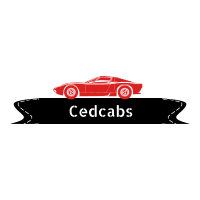
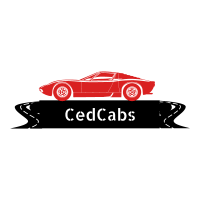
Add files via upload

Changed region(s): [[0.06, 0.33, 0.96, 0.66]]

diff --git a/index.html b/index.html
@@ -9,6 +9,7 @@
     <script src="https://cdn.jsdelivr.net/npm/bootstrap@4.5.3/dist/js/bootstrap.bundle.min.js" integrity="sha384-ho+j7jyWK8fNQe+A12Hb8AhRq26LrZ/JpcUGGOn+Y7RsweNrtN/tE3MoK7ZeZDyx" crossorigin="anonymous"></script>
     <link rel="stylesheet" href="https://maxcdn.bootstrapcdn.com/bootstrap/4.0.0/css/bootstrap.min.css" 
         integrity="sha384-Gn5384xqQ1aoWXA+058RXPxPg6fy4IWvTNh0E263XmFcJlSAwiGgFAW/dAiS6JXm" crossorigin="anonymous">
+    <script src="https://ajax.googleapis.com/ajax/libs/jquery/3.5.1/jquery.min.js"></script>
     <title>CedCabs</title>
 </head>
 <body>
@@ -41,8 +42,7 @@
             <div class="row text-center my-4">
                 <div class="col-sm-1 col-md-1 col-lg-1"></div>
                 <div class="col-sm-4 col-md-4 col-lg-4 " id="form">
-                    <h5 class="mt-3">City Taxi</h5>
-                    <hr>
+                    <h5 class="my-3">CedCabs City Fare</h5>
                     <h6>Your everyday travel partner</h6>
                     <p class="mb-3">AC Cabs for point to point travel</p>
                     <form>
@@ -59,7 +59,7 @@
                             </select>
                         </div>
                         <div class="form-group">
-                            <select name="pickup" class="form-control" id="pickup">
+                            <select name="drop" class="form-control" id="drop">
                                 <option value="">Select Your Drop Location</option>
                                 <option value="Charbagh">Charbagh</option>
                                 <option value="Indira Nagar">Indira Nagar</option>
@@ -71,10 +71,16 @@
                             </select>
                         </div>
                         <div class="form-group">
-                            <input type="text" class="form-control" id="cabtype" placeholder="Enter Cab Type">
+                            <select name="cabtype" class="form-control" id="cabtype">
+                                <option value="">Select Cab Type</option>
+                                <option value="CedMicro">CedMicro</option>
+                                <option value="CedMini">CedMini</option>
+                                <option value="CedRoyal">CedRoyal</option>
+                                <option value="CedSUV">CedSUV</option>
+                            </select>
                         </div>
                         <div class="form-group">
-                            <input type="text" class="form-control" id="luggage" placeholder="Luggage">
+                            <input type="number" class="form-control" id="luggage" placeholder="Luggage in KG">
                         </div>
                         <p>
                             <button type="submit" class="btn btn-primary">Calculate Fare</button>
@@ -87,13 +93,13 @@
     </section>
     <footer>
         <div id="footer" class="container">
-            <div class="row my-5 text-center">
-                <div id="footer1" class="col-lg-4 mb-3">
-                    <i class="fa fa-facebook" aria-hidden="true" style="font-size: 20px;"></i>
-                    <i class="fa fa-twitter" aria-hidden="true" style="font-size: 22px;"></i>
-                    <i class="fa fa-instagram" aria-hidden="true" style="font-size: 22px;"></i>
+            <div class="row my-4 text-center">
+                <div id="footer1" class="col-lg-4 py-4">
+                    <i class="fa fa-facebook" aria-hidden="true" style="padding: 13px;font-size: 22px;"></i>
+                    <i class="fa fa-twitter" aria-hidden="true" style="padding: 13px;font-size: 22px;"></i>
+                    <i class="fa fa-instagram" aria-hidden="true" style="padding: 13px;font-size: 22px;"></i>
                 </div>
-                <div id="footer3" class="col-lg-4 mt-3">
+                <div id="footer3" class="col-lg-4 py-4">
                     <ul>
                         <li><a href="#features">FEATURES</a></li>
                         <li><a href="#reviews">REVIEWS</a></li>
@@ -101,11 +107,25 @@
                     </ul>
                 </div>
                 <div id="footer2" class="col-lg-4">
-                    <h2>CedCabs</h2>
+                    <img src="cedcabs.png" alt="CedCabs" id="logo">
                     <p><i class="fa fa-heart" aria-hidden="true" style="color: red;"></i> Designed by <strong>Pradeep Singh Bisht</strong></p>
                 </div>
             </div>
         </div>
     </footer>
+    <script>
+        $('#pickup').change(function(){
+            var pickup = $('#pickup').val();
+            $.ajax({
+                url: "ajax.php",
+                data: {pickup},
+                type: 'POST',
+                dataType: 'html',
+                success: function(result){
+                    alert(result);
+                }
+            });
+        });
+    </script>
 </body>
 </html>

diff --git a/style.css b/style.css
@@ -2,7 +2,7 @@
     margin: 0;
 }
 #logo{
-    
+    margin: -60px 0px; 
 }
 #navbtn a{
     color: black;
@@ -40,6 +40,7 @@
     font-weight: bolder;
 }
 #form h5{
+    font-weight: bolder;
     padding: 5px;
     background-color: greenyellow;
     border-radius: 5px;
@@ -49,6 +50,9 @@
 }
 #form input{
     background-color: rgb(240, 235, 235);
+}
+#form button:hover{
+    background-color: rgb(151, 228, 35);
 }
 #form button{
     color: black;
@@ -64,15 +68,13 @@
     background-color: black;
     margin: 0px 20px;
 }
-#footer2 h2{
-    font-weight: bolder;
-}
 #footer3 ul{
     list-style-type: none;
+    padding: 0px;
 }
 #footer3 li{
-    display: inline;
-    margin-right: 15px;
+    display: inline;;
+    margin: 0px 12px;
 }
 #footer3 a{
     text-decoration: none;

diff --git a/ajax.php b/ajax.php
@@ -1,0 +1,4 @@
+<?php
+    $pickup = $_POST['pickup'];
+    echo $pickup;
+?>
